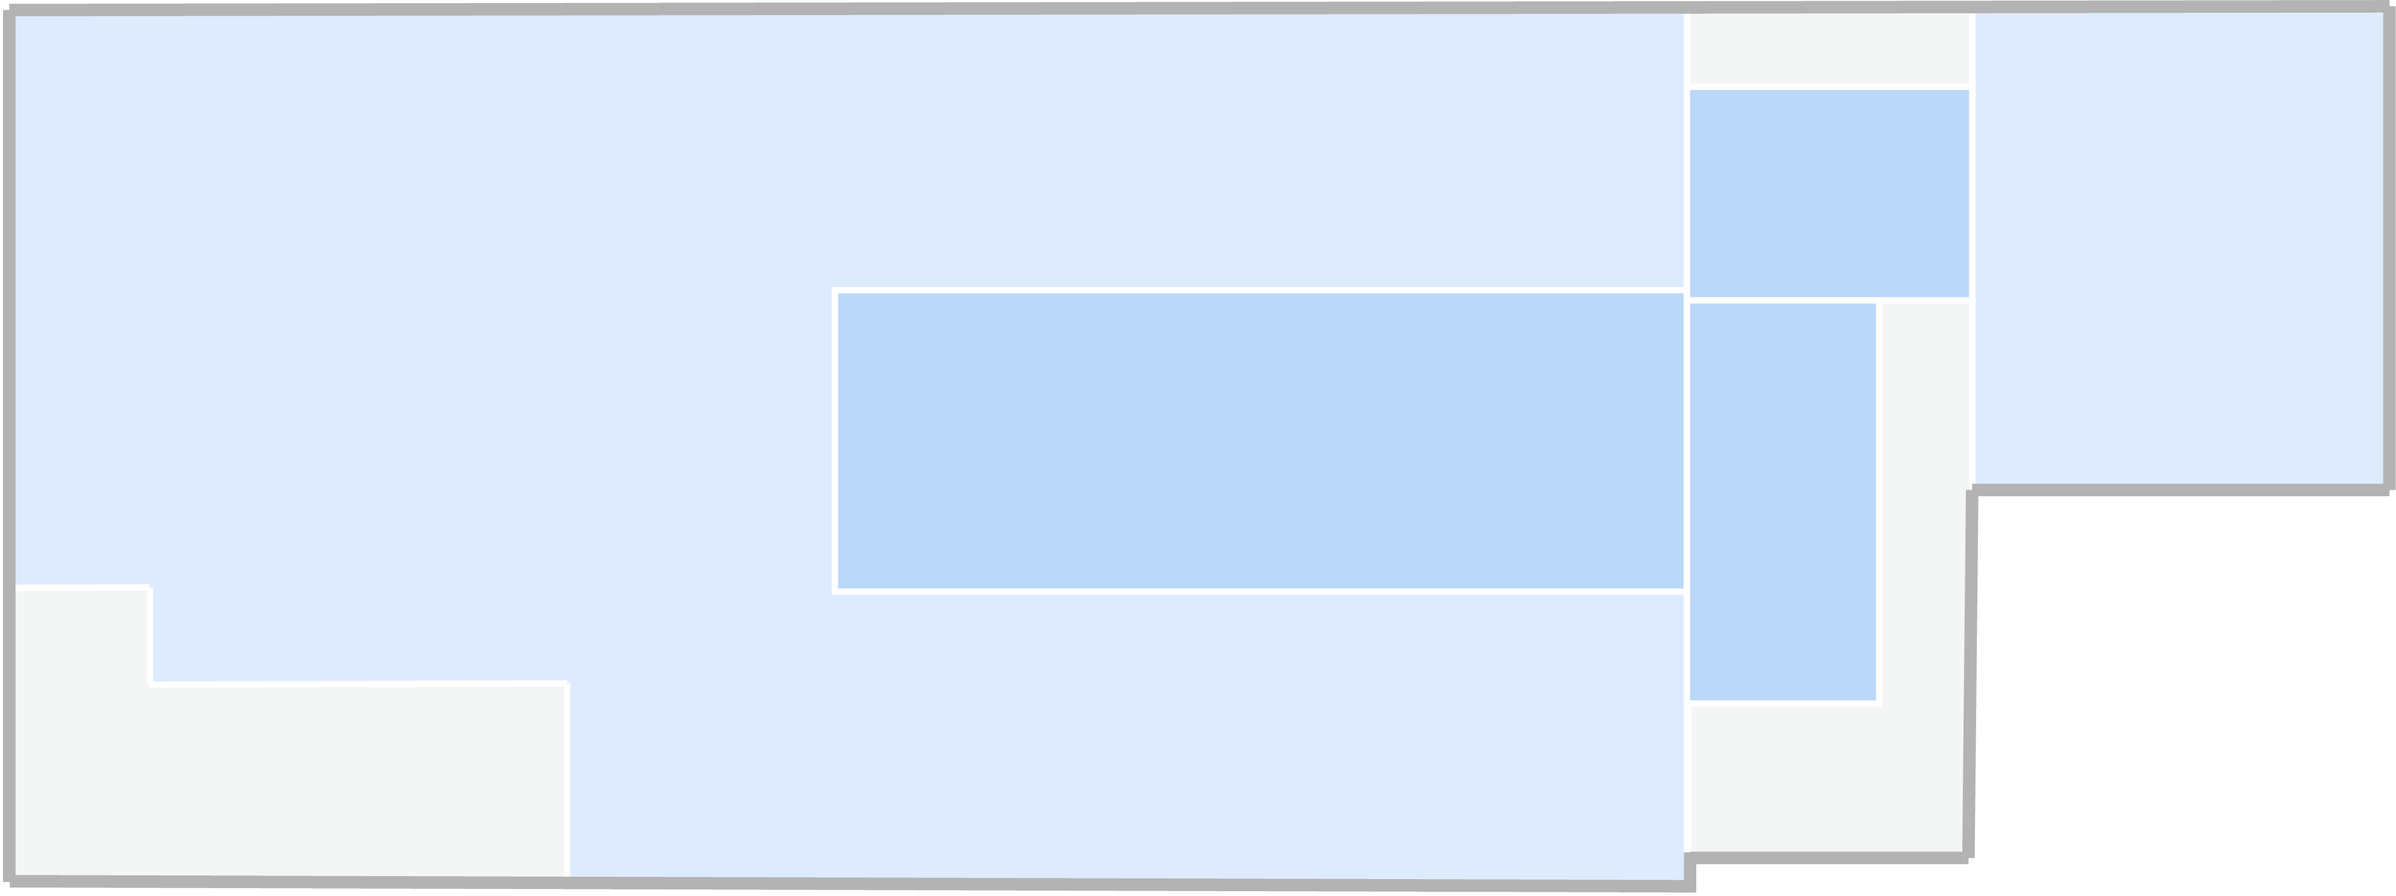
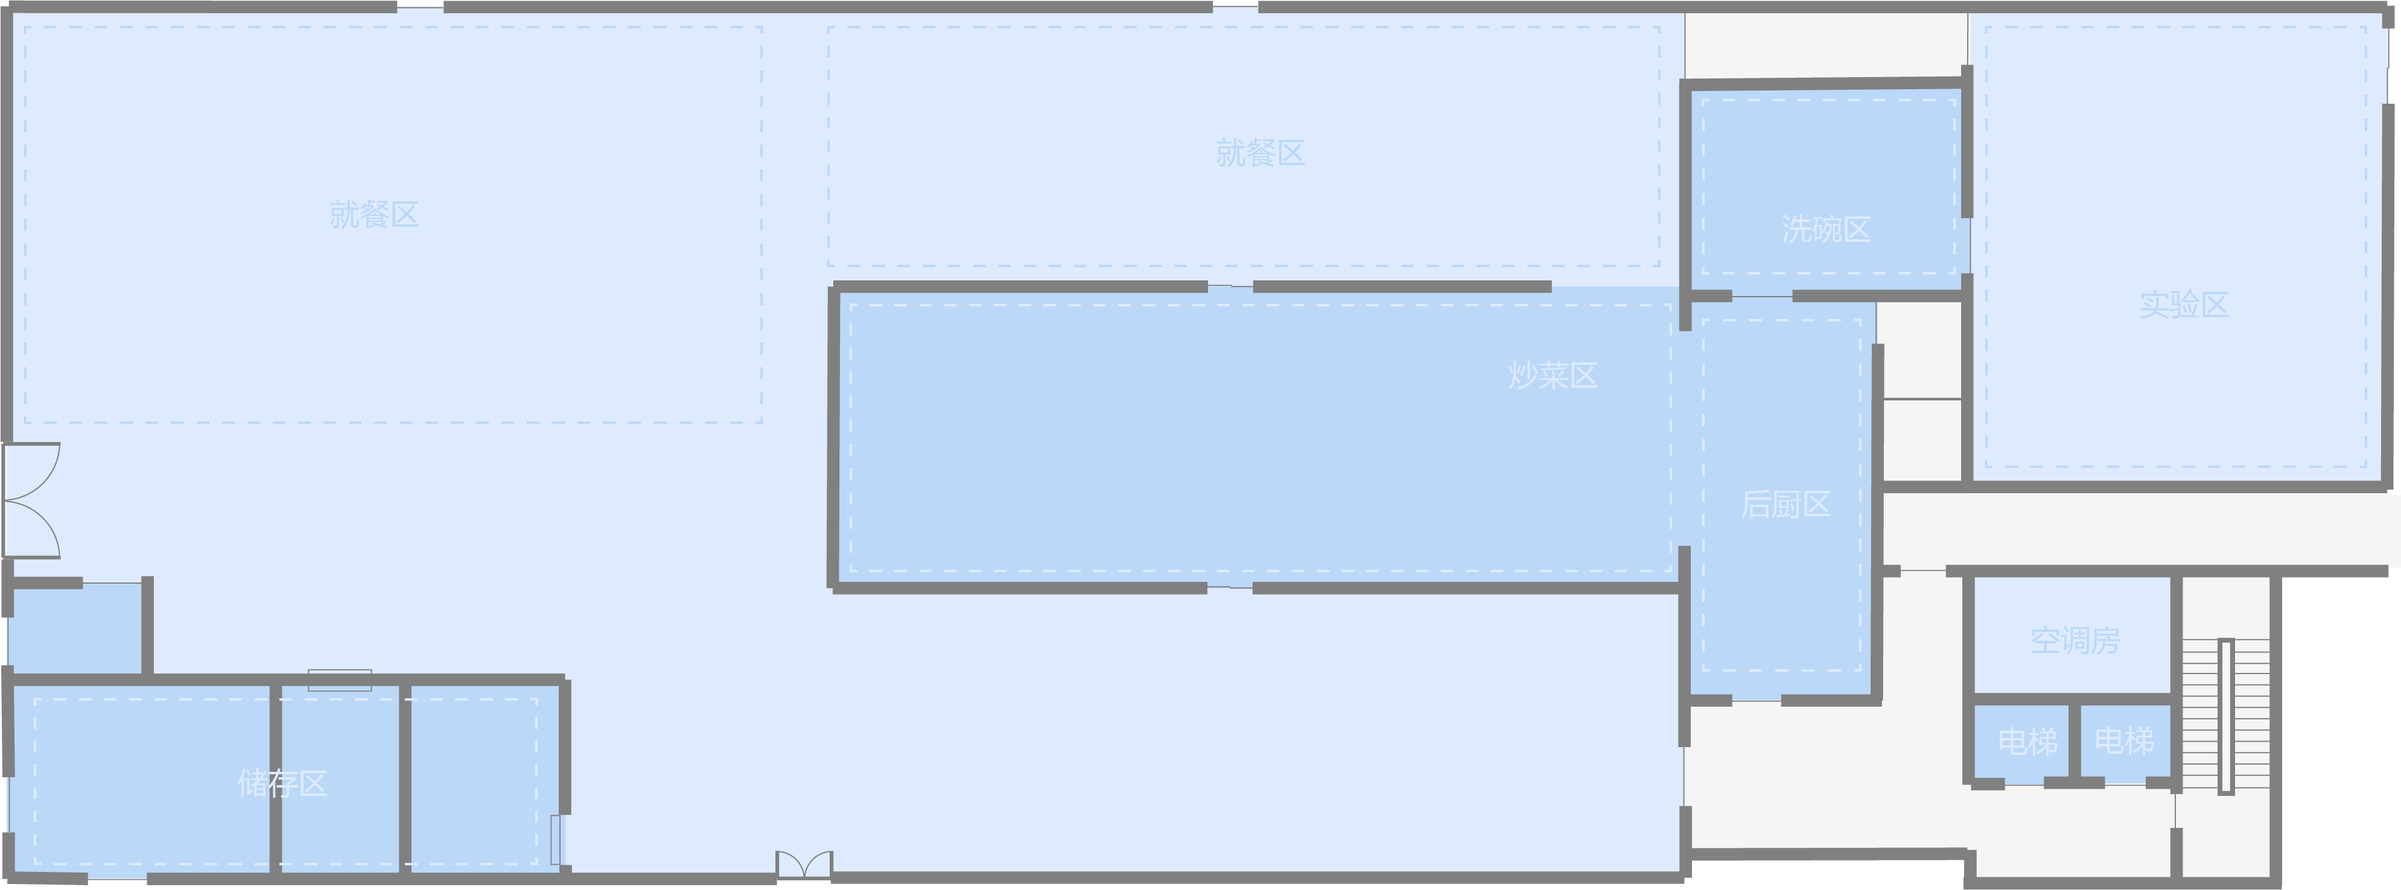
update Modal

diff --git a/src/routes/Dashboard/map.js b/src/routes/Dashboard/map.js
@@ -1,5 +1,5 @@
 import React from 'react'
-import { Layout,Row,Col,Tooltip } from 'antd'
+import { Layout,Row,Col,Tooltip,Modal } from 'antd'
 import styles from './map.less'
 
 import robot from '../../assets/icon/robot.png'
@@ -22,6 +22,8 @@ import robotHeart from '../../assets/icon/芯片.png'
 const { Header,Content } = Layout
 
 export default class Map extends React.Component{
+  state = { visible: false }
+
   componentDidMount(){
     window.addEventListener('resize',this.handHeight)
     this.handHeight()
@@ -56,6 +58,22 @@ export default class Map extends React.Component{
     }
   }
 
+  handleModal = (data) => {
+    // alert(data)
+    Modal.info({
+      title: 'This is a notification message',
+      content: (
+        <div>
+          <p>some messages...some messages...</p>
+          <p>some messages...some messages...</p>
+        </div>
+      ),
+      okText:'好的',
+      centered:true,
+      onOk() {},
+    });
+  }
+
   render(){
     return (
       <div>
@@ -65,66 +83,66 @@ export default class Map extends React.Component{
             <Row>
               <Col span={24}>
                 <div id="background" className={styles.background}>
-                  <div style={{position:'absolute',top:'23%',left:'44%'}}><Tooltip title="宣传展示屏"><img className="icon" src={screen} alt="" /></Tooltip></div>
+                  <div style={{position:'absolute',top:'23%',left:'44%'}}><Tooltip title="宣传展示屏"><img onClick={this.handleModal.bind(this,1)} className="icon" src={screen} alt="" /></Tooltip></div>
                   {/* <div style={{position:'absolute',top:'18%',left:'8%'}}><Tooltip title="用餐区"><img className="icon_60" src={resturant} alt="" /></Tooltip></div> */}
-                  <div style={{position:'absolute',top:'3%',left:'38%'}}><Tooltip title="傲博倒茶机器人"><img className="icon" src={robotTea} alt="" /></Tooltip></div>
-                  <div style={{position:'absolute',top:'3%',left:'41%'}}><Tooltip title="UR5收拾餐具"><img className="icon" src={ur} alt="" /></Tooltip></div>
-                  <div style={{position:'absolute',top:'3%',left:'50%'}}><Tooltip title="Omron AGV 抓盘展示"><img className="icon" src={robot} alt="" /></Tooltip></div>
+                  <div style={{position:'absolute',top:'3%',left:'38%'}}><Tooltip title="傲博倒茶机器人"><img onClick={this.handleModal.bind(this,1)} className="icon" src={robotTea} alt="" /></Tooltip></div>
+                  <div style={{position:'absolute',top:'3%',left:'41%'}}><Tooltip title="UR5收拾餐具"><img onClick={this.handleModal.bind(this,1)} className="icon" src={ur} alt="" /></Tooltip></div>
+                  <div style={{position:'absolute',top:'3%',left:'50%'}}><Tooltip title="Omron AGV 抓盘展示"><img onClick={this.handleModal.bind(this,1)} className="icon" src={robot} alt="" /></Tooltip></div>
 
-                  <div style={{position:'absolute',top:'74%',left:'35%'}}><img className="icon" src={robotYingbing} alt="" /></div>
-                  <div style={{position:'absolute',top:'68%',left:'35%'}}><img className="icon" src={robotHeidou} alt="" /></div>
-                  <div style={{position:'absolute',top:'88%',left:'38%'}}><img className="icon" src={robotChess} alt="" /></div>
-                  <div style={{position:'absolute',top:'88%',left:'41%'}}><img className="icon" src={robotTea} alt="" /></div>
-                  <div style={{position:'absolute',top:'88%',left:'44%'}}><img className="icon" src={robotChess2} alt="" /></div>
-                  <div style={{position:'absolute',top:'88%',left:'47%'}}><img className="icon" src={robotMirror} alt="" /></div>
-                  <div style={{position:'absolute',top:'88%',left:'50%'}}><img className="icon" src={robotCoffee} alt="" /></div>
-                  <div style={{position:'absolute',top:'88%',left:'53%'}}><img className="icon" src={robotHeart} alt="" /></div>
+                  <div style={{position:'absolute',top:'74%',left:'35%'}}><img onClick={this.handleModal.bind(this,1)} className="icon" src={robotYingbing} alt="" /></div>
+                  <div style={{position:'absolute',top:'68%',left:'35%'}}><img onClick={this.handleModal.bind(this,1)} className="icon" src={robotHeidou} alt="" /></div>
+                  <div style={{position:'absolute',top:'88%',left:'38%'}}><img onClick={this.handleModal.bind(this,1)} className="icon" src={robotChess} alt="" /></div>
+                  <div style={{position:'absolute',top:'88%',left:'41%'}}><img onClick={this.handleModal.bind(this,1)} className="icon" src={robotTea} alt="" /></div>
+                  <div style={{position:'absolute',top:'88%',left:'44%'}}><img onClick={this.handleModal.bind(this,1)} className="icon" src={robotChess2} alt="" /></div>
+                  <div style={{position:'absolute',top:'88%',left:'47%'}}><img onClick={this.handleModal.bind(this,1)} className="icon" src={robotMirror} alt="" /></div>
+                  <div style={{position:'absolute',top:'88%',left:'50%'}}><img onClick={this.handleModal.bind(this,1)} className="icon" src={robotCoffee} alt="" /></div>
+                  <div style={{position:'absolute',top:'88%',left:'53%'}}><img onClick={this.handleModal.bind(this,1)} className="icon" src={robotHeart} alt="" /></div>
 
-                  <div style={{position:'absolute',top:'44%',left:'84.5%'}}><img className="icon" src={robot50} alt="" /></div>
-                  <div style={{position:'absolute',top:'44%',left:'88%'}}><img className="icon" src={robot50} alt="" /></div>
-                  <div style={{position:'absolute',top:'44%',left:'91.5%'}}><img className="icon" src={robot50} alt="" /></div>
-                  <div style={{position:'absolute',top:'44%',left:'95%'}}><img className="icon" src={robot50} alt="" /></div>
-                  <div style={{position:'absolute',top:'16%',left:'84%'}}><img className="icon" src={robot50} alt="" /></div>
-                  <div style={{position:'absolute',top:'22%',left:'89.5%'}}><img className="icon" src={robot50} alt="" /></div>
-                  <div style={{position:'absolute',top:'12%',left:'72%'}}><img className="icon" src={robot50} alt="" /></div>
+                  <div style={{position:'absolute',top:'44%',left:'84.5%'}}><img onClick={this.handleModal.bind(this,2)} className="icon" src={robot50} alt="" /></div>
+                  <div style={{position:'absolute',top:'44%',left:'88%'}}><img onClick={this.handleModal.bind(this,2)} className="icon" src={robot50} alt="" /></div>
+                  <div style={{position:'absolute',top:'44%',left:'91.5%'}}><img onClick={this.handleModal.bind(this,2)} className="icon" src={robot50} alt="" /></div>
+                  <div style={{position:'absolute',top:'44%',left:'95%'}}><img onClick={this.handleModal.bind(this,2)} className="icon" src={robot50} alt="" /></div>
+                  <div style={{position:'absolute',top:'16%',left:'84%'}}><img onClick={this.handleModal.bind(this,2)} className="icon" src={robot50} alt="" /></div>
+                  <div style={{position:'absolute',top:'22%',left:'89.5%'}}><img onClick={this.handleModal.bind(this,2)} className="icon" src={robot50} alt="" /></div>
+                  <div style={{position:'absolute',top:'12%',left:'72%'}}><img onClick={this.handleModal.bind(this,2)} className="icon" src={robot50} alt="" /></div>
 
-                  <div style={{position:'absolute',top:'23%',left:'95.5%'}}><img className="icon" src={assembleLine} alt="" /></div>
-                  <div style={{position:'absolute',top:'18%',left:'95.5%'}}><img className="icon" src={assembleLine} alt="" /></div>
-                  <div style={{position:'absolute',top:'13%',left:'95.5%'}}><img className="icon" src={assembleLine} alt="" /></div>
-                  <div style={{position:'absolute',top:'28%',left:'95.5%'}}><img className="icon" src={assembleLine} alt="" /></div>
-                  <div style={{position:'absolute',top:'33%',left:'95.5%'}}><img className="icon" src={assembleLine} alt="" /></div>
+                  <div style={{position:'absolute',top:'23%',left:'95.5%'}}><img onClick={this.handleModal.bind(this,1)} className="icon" src={assembleLine} alt="" /></div>
+                  <div style={{position:'absolute',top:'18%',left:'95.5%'}}><img onClick={this.handleModal.bind(this,1)} className="icon" src={assembleLine} alt="" /></div>
+                  <div style={{position:'absolute',top:'13%',left:'95.5%'}}><img onClick={this.handleModal.bind(this,1)} className="icon" src={assembleLine} alt="" /></div>
+                  <div style={{position:'absolute',top:'28%',left:'95.5%'}}><img onClick={this.handleModal.bind(this,1)} className="icon" src={assembleLine} alt="" /></div>
+                  <div style={{position:'absolute',top:'33%',left:'95.5%'}}><img onClick={this.handleModal.bind(this,1)} className="icon" src={assembleLine} alt="" /></div>
 
-                  <div style={{position:'absolute',top:'36%',left:'38%'}}><img className="icon" src={robot50} alt="" /></div>
-                  <div style={{position:'absolute',top:'54%',left:'38%'}}><img className="icon" src={robot50} alt="" /></div>
-                  <div style={{position:'absolute',top:'54%',left:'45%'}}><img className="icon" src={robot50} alt="" /></div>
-                  <div style={{position:'absolute',top:'36%',left:'45%'}}><img className="icon" src={robot50} alt="" /></div>
-                  <div style={{position:'absolute',top:'54%',left:'52%'}}><img className="icon" src={robot50} alt="" /></div>
-                  <div style={{position:'absolute',top:'36%',left:'52%'}}><img className="icon" src={robot50} alt="" /></div>
+                  <div style={{position:'absolute',top:'36%',left:'38%'}}><img onClick={this.handleModal.bind(this,2)} className="icon" src={robot50} alt="" /></div>
+                  <div style={{position:'absolute',top:'54%',left:'38%'}}><img onClick={this.handleModal.bind(this,2)} className="icon" src={robot50} alt="" /></div>
+                  <div style={{position:'absolute',top:'54%',left:'45%'}}><img onClick={this.handleModal.bind(this,2)} className="icon" src={robot50} alt="" /></div>
+                  <div style={{position:'absolute',top:'36%',left:'45%'}}><img onClick={this.handleModal.bind(this,2)} className="icon" src={robot50} alt="" /></div>
+                  <div style={{position:'absolute',top:'54%',left:'52%'}}><img onClick={this.handleModal.bind(this,2)} className="icon" src={robot50} alt="" /></div>
+                  <div style={{position:'absolute',top:'36%',left:'52%'}}><img onClick={this.handleModal.bind(this,2)} className="icon" src={robot50} alt="" /></div>
 
-                  <div style={{position:'absolute',top:'41.5%',left:'38%'}}><img className="icon" src={cook} alt="" /></div>
-                  <div style={{position:'absolute',top:'36%',left:'36%'}}><img className="icon" src={cook} alt="" /></div>
-                  <div style={{position:'absolute',top:'36%',left:'40%'}}><img className="icon" src={cook} alt="" /></div>
-                  <div style={{position:'absolute',top:'48.5%',left:'38%'}}><img className="icon" src={cook} alt="" /></div>
-                  <div style={{position:'absolute',top:'54%',left:'36%'}}><img className="icon" src={cook} alt="" /></div>
-                  <div style={{position:'absolute',top:'54%',left:'40%'}}><img className="icon" src={cook} alt="" /></div>
+                  <div style={{position:'absolute',top:'41.5%',left:'38%'}}><img onClick={this.handleModal.bind(this,1)} className="icon" src={cook} alt="" /></div>
+                  <div style={{position:'absolute',top:'36%',left:'36%'}}><img onClick={this.handleModal.bind(this,1)} className="icon" src={cook} alt="" /></div>
+                  <div style={{position:'absolute',top:'36%',left:'40%'}}><img onClick={this.handleModal.bind(this,1)} className="icon" src={cook} alt="" /></div>
+                  <div style={{position:'absolute',top:'48.5%',left:'38%'}}><img onClick={this.handleModal.bind(this,1)} className="icon" src={cook} alt="" /></div>
+                  <div style={{position:'absolute',top:'54%',left:'36%'}}><img onClick={this.handleModal.bind(this,1)} className="icon" src={cook} alt="" /></div>
+                  <div style={{position:'absolute',top:'54%',left:'40%'}}><img onClick={this.handleModal.bind(this,1)} className="icon" src={cook} alt="" /></div>
                   
-                  <div style={{position:'absolute',top:'41.5%',left:'45%'}}><img className="icon" src={cook} alt="" /></div>
-                  <div style={{position:'absolute',top:'36%',left:'43%'}}><img className="icon" src={cook} alt="" /></div>
-                  <div style={{position:'absolute',top:'36%',left:'47%'}}><img className="icon" src={cook} alt="" /></div>
-                  <div style={{position:'absolute',top:'48.5%',left:'45%'}}><img className="icon" src={cook} alt="" /></div>
-                  <div style={{position:'absolute',top:'54%',left:'43%'}}><img className="icon" src={cook} alt="" /></div>
-                  <div style={{position:'absolute',top:'54%',left:'47%'}}><img className="icon" src={cook} alt="" /></div>
+                  <div style={{position:'absolute',top:'41.5%',left:'45%'}}><img onClick={this.handleModal.bind(this,1)} className="icon" src={cook} alt="" /></div>
+                  <div style={{position:'absolute',top:'36%',left:'43%'}}><img onClick={this.handleModal.bind(this,1)} className="icon" src={cook} alt="" /></div>
+                  <div style={{position:'absolute',top:'36%',left:'47%'}}><img onClick={this.handleModal.bind(this,1)} className="icon" src={cook} alt="" /></div>
+                  <div style={{position:'absolute',top:'48.5%',left:'45%'}}><img onClick={this.handleModal.bind(this,1)} className="icon" src={cook} alt="" /></div>
+                  <div style={{position:'absolute',top:'54%',left:'43%'}}><img onClick={this.handleModal.bind(this,1)} className="icon" src={cook} alt="" /></div>
+                  <div style={{position:'absolute',top:'54%',left:'47%'}}><img onClick={this.handleModal.bind(this,1)} className="icon" src={cook} alt="" /></div>
 
-                  <div style={{position:'absolute',top:'41.5%',left:'52%'}}><img className="icon" src={cook} alt="" /></div>
-                  <div style={{position:'absolute',top:'36%',left:'50%'}}><img className="icon" src={cook} alt="" /></div>
-                  <div style={{position:'absolute',top:'36%',left:'54%'}}><img className="icon" src={cook} alt="" /></div>
-                  <div style={{position:'absolute',top:'48.5%',left:'52%'}}><img className="icon" src={cook} alt="" /></div>
-                  <div style={{position:'absolute',top:'54%',left:'50%'}}><img className="icon" src={cook} alt="" /></div>
-                  <div style={{position:'absolute',top:'54%',left:'54%'}}><img className="icon" src={cook} alt="" /></div>
+                  <div style={{position:'absolute',top:'41.5%',left:'52%'}}><img onClick={this.handleModal.bind(this,1)} className="icon" src={cook} alt="" /></div>
+                  <div style={{position:'absolute',top:'36%',left:'50%'}}><img onClick={this.handleModal.bind(this,1)} className="icon" src={cook} alt="" /></div>
+                  <div style={{position:'absolute',top:'36%',left:'54%'}}><img onClick={this.handleModal.bind(this,1)} className="icon" src={cook} alt="" /></div>
+                  <div style={{position:'absolute',top:'48.5%',left:'52%'}}><img onClick={this.handleModal.bind(this,1)} className="icon" src={cook} alt="" /></div>
+                  <div style={{position:'absolute',top:'54%',left:'50%'}}><img onClick={this.handleModal.bind(this,1)} className="icon" src={cook} alt="" /></div>
+                  <div style={{position:'absolute',top:'54%',left:'54%'}}><img onClick={this.handleModal.bind(this,1)} className="icon" src={cook} alt="" /></div>
 
-                  <div style={{position:'absolute',top:'54%',left:'58%'}}><img className="icon" src={cookFanxing} alt="" /></div>
-                  <div style={{position:'absolute',top:'54%',left:'60.6%'}}><img className="icon" src={cookFanxing} alt="" /></div>
-                  <div style={{position:'absolute',top:'54%',left:'63.2%'}}><img className="icon" src={cookFanxing} alt="" /></div>
+                  <div style={{position:'absolute',top:'54%',left:'58%'}}><img onClick={this.handleModal.bind(this,1)} className="icon" src={cookFanxing} alt="" /></div>
+                  <div style={{position:'absolute',top:'54%',left:'60.6%'}}><img onClick={this.handleModal.bind(this,1)} className="icon" src={cookFanxing} alt="" /></div>
+                  <div style={{position:'absolute',top:'54%',left:'63.2%'}}><img onClick={this.handleModal.bind(this,1)} className="icon" src={cookFanxing} alt="" /></div>
                 </div>
               </Col>
             </Row>

diff --git a/src/routes/Dashboard/HomePage.js b/src/routes/Dashboard/HomePage.js
@@ -3,7 +3,7 @@ import { Link } from 'dva/router'
 import { Layout,Tabs,Row,Col,Table,Icon,Progress } from 'antd'
 import echarts from 'echarts'
 import styles from './HomePage.less'
-import robotLocation from '../../assets/robot-location.png'
+import robotBackground from '../../assets/background.png'
 
 const {
   Header,
@@ -42,39 +42,15 @@ const orderList = [{
       operation: '15',
     }]
 
-// const colums = [{
-//   title:<span style={{fontSize:20}}>设备利用率</span>,
-//   dataIndex:'device',
-//   key:'device',
-// },{
-//   title:<span style={{fontSize:20}}>上午(6:00-10:00)</span>,
-//   dataIndex:'morning',
-//   key:'morning',
-// },{
-//   title:<span style={{fontSize:20}}>中午(11:00-14:00)</span>,
-//   dataIndex:'afternoon',
-//   key:'afternoon',
-// }, {
-//   title: <span style={{fontSize:20}}>晚上(16:00-21:00)</span>,
-//   dataIndex: 'moon',
-//   key: 'moon',
-// }]
-
-// const dataSource =[{
-//   key:'1',
-//   device:<div style={{height:80}} />,
-//   morning:<div style={{width:'50%'}}><Progress percent={50} status="active" strokeWidth={12} strokecolor="rgb(155,155,155)" /></div>,
-//   afternoon: <div style={{width:'50%'}}><Progress percent={50} status="active" strokeWidth={12} /></div>,
-//   moon: <div style={{width:'50%'}}><Progress percent={50} status="active" strokeWidth={12} /></div>,
-// }]
-
 export default class HomePage extends Component{
   componentDidMount() {
+    window.addEventListener('resize',this.handSize);
+    this.handSize()
     const app = echarts.init(document.getElementById('main'))
     app.title = "设备使用率"
-const option = {
-  color:['rgb(131,182,238)'],
-  title:{
+    const option = {
+    color:['rgb(131,182,238)'],
+    title:{
     text:'设备利用率(%)',
   },
   xAxis: {
@@ -89,9 +65,22 @@ const option = {
     data: [10, 40, 60, 70, 50, 80, 88,60],
     barWidth:'50%',
     type: 'bar',
-  }],
-};
+}]};
     app.setOption(option)
+  }
+
+  componentWillUpdate() {
+    this.handSize()
+  }
+
+  componentWillUnmount() {
+    this.handSize()
+    window.removeEventListener('resize',this.handSize)
+  }
+
+  handSize = () => {
+    const ff = document.getElementById("main").offsetWidth
+    document.getElementById('main').style.height = `${Math.floor(320*ff/608)}px`
   }
 
   render() {
@@ -167,7 +156,7 @@ const option = {
                 <Row style={{marginLeft:20}}>
                   <h3 style={{fontFamily:'黑体',color:'rgb(25,134,165)',fontSize:30}}><b>设备信息总览</b></h3>
                 </Row>
-                <Row gutter={16}>
+                <Row gutter={16} style={{height:320}}>
                   <Col xl={6} lg={22} md={22} sm={22} xs={22}>
                     <div style={{fontSize:25,marginLeft:40}}>
                   设备运转情况
@@ -180,18 +169,20 @@ const option = {
                     </div>
                   </Col>
                   <Col xl={8} lg={22} md={22} sm={22} xs={22}>
-                    <div id="main" style={{height:400,width:600}} />
+                    <div id="main" style={{width:'100%'}} />
                   </Col>
                   <Col span={1} />
                   <Col xl={8} lg={22} md={22} sm={24} xs={22}>
-                    <div><b style={{fontfamily:'黑体'}}>餐厅平面图</b></div>
-                    <div id='chart2' style={{width:698,height:379}}>
+                    <div><b style={{fontfamily:'黑体'}}>设备实时电子地图</b></div>
+                    <div id='chart2' style={{marginTop:20}}>
                       <Link to='/dashboard/map'>
-                        <img src={robotLocation} alt='robot location' style={{width:'100%',height:'100%'}} />
+                        <div style={{position:'relative',width:'100%'}}>
+                          <img id="map" src={robotBackground} alt='robot location' style={{width:'100%'}} />
+                          <div style={{position:'absolute',top:'40%',left:'35%',color:'rgba(150,150,150,0.4)',fontSize:25,fontFamily:'微软雅黑'}}>点击查看详情</div>
+                        </div>
                       </Link>
                     </div>
                   </Col>
-                  
                 </Row>
               </TabPane>
             </Tabs>

diff --git a/src/routes/Dashboard/map.less b/src/routes/Dashboard/map.less
@@ -4,7 +4,7 @@
 .background {
   width: 100%;
   height: 600px;
-  background-image: url('../../assets/background2.png');
+  background-image: url('../../assets/background.png');
   background-size: contain;
   background-repeat: no-repeat;
   background-color:rgb(250,250,250); 
